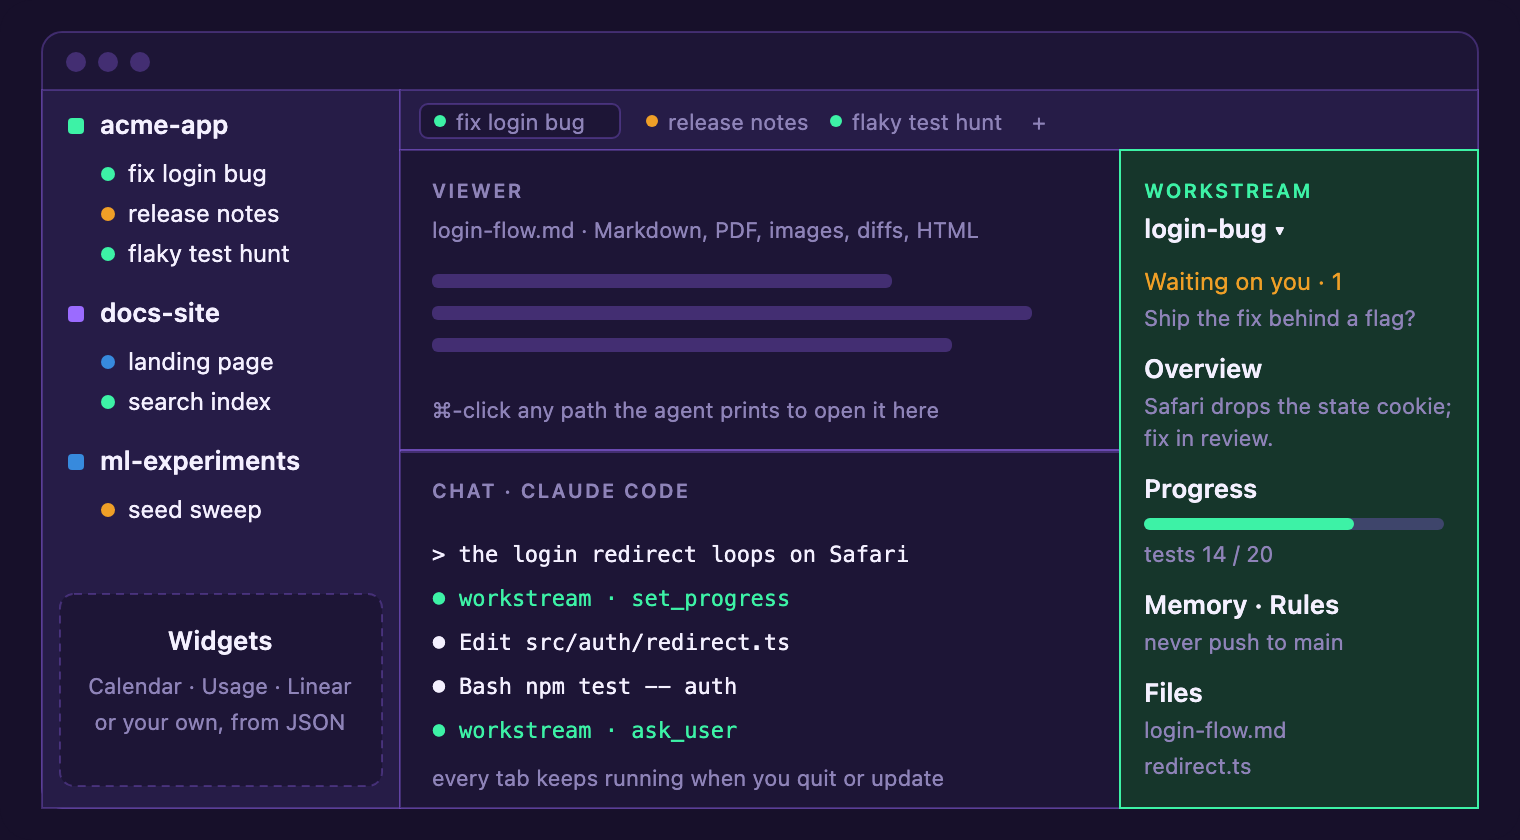
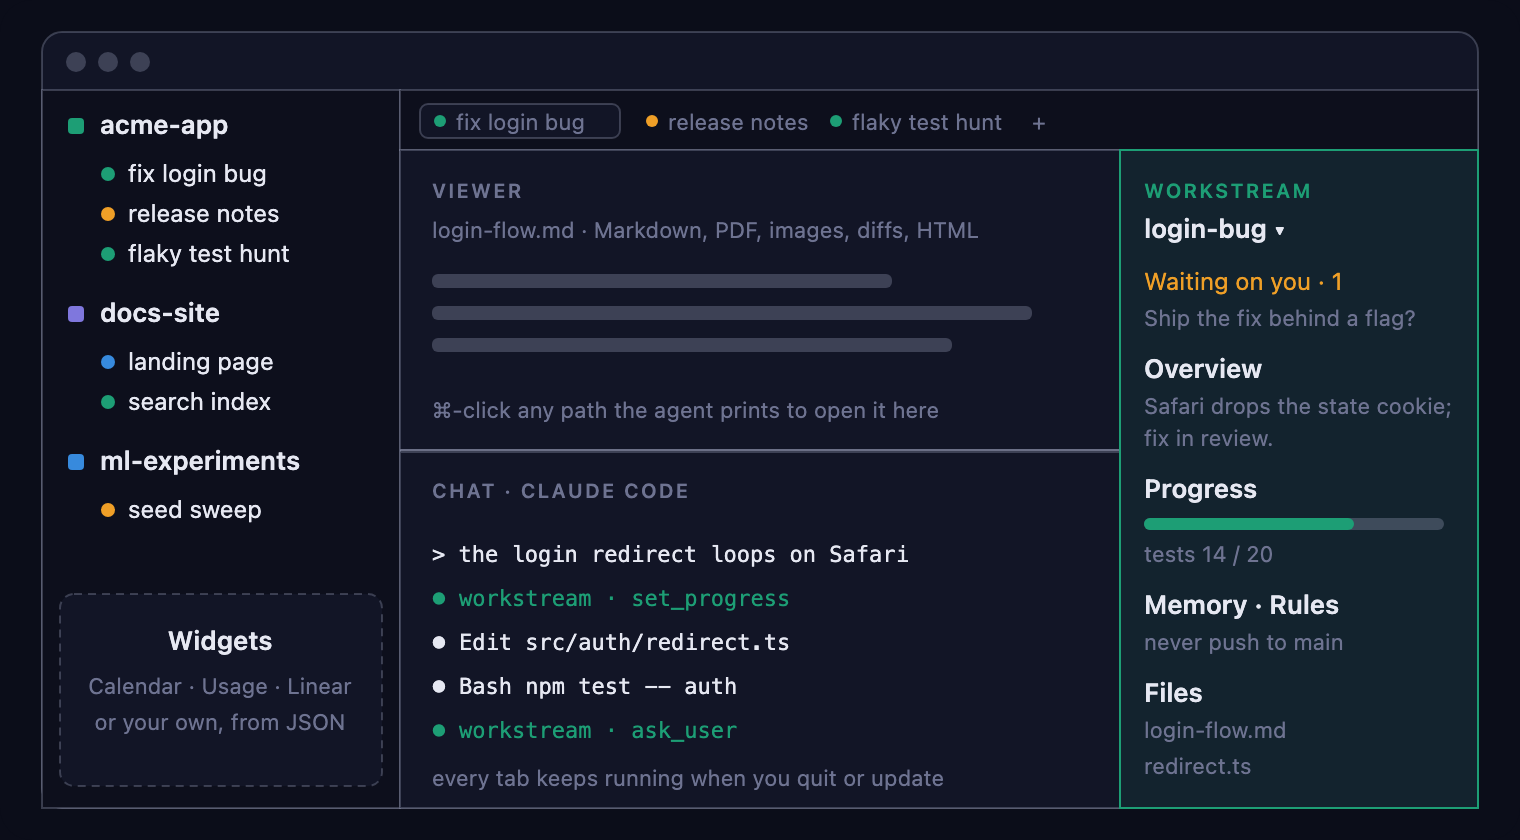
Launch look: hero image and site in the public Midnight theme

diff --git a/docs/site.css b/docs/site.css
@@ -1,7 +1,7 @@
 /* The site's one stylesheet: the landing page and the Markdown pages (docs/_layouts/default.html). */
 :root {
-  --bg: #17102A; --surface: #1D1536; --raised: #261C47; --fg: #F4F0FF; --secondary: #C6BCEB; --muted: #8E83B8;
-  --line: rgba(155,107,255,.30); --accent: #3DF2A6; --amber: #EF9F27; --blue: #378ADD; --violet: #9B6BFF;
+  --bg: #0B0D19; --surface: #121526; --raised: #0D0F1C; --fg: #E6E8F2; --secondary: #A3A8C3; --muted: #6E7391;
+  --line: rgba(163,168,195,.30); --accent: #1D9E75; --amber: #EF9F27; --blue: #378ADD; --violet: #7F77DD;
   color-scheme: dark;
 }
 * { box-sizing: border-box; }
